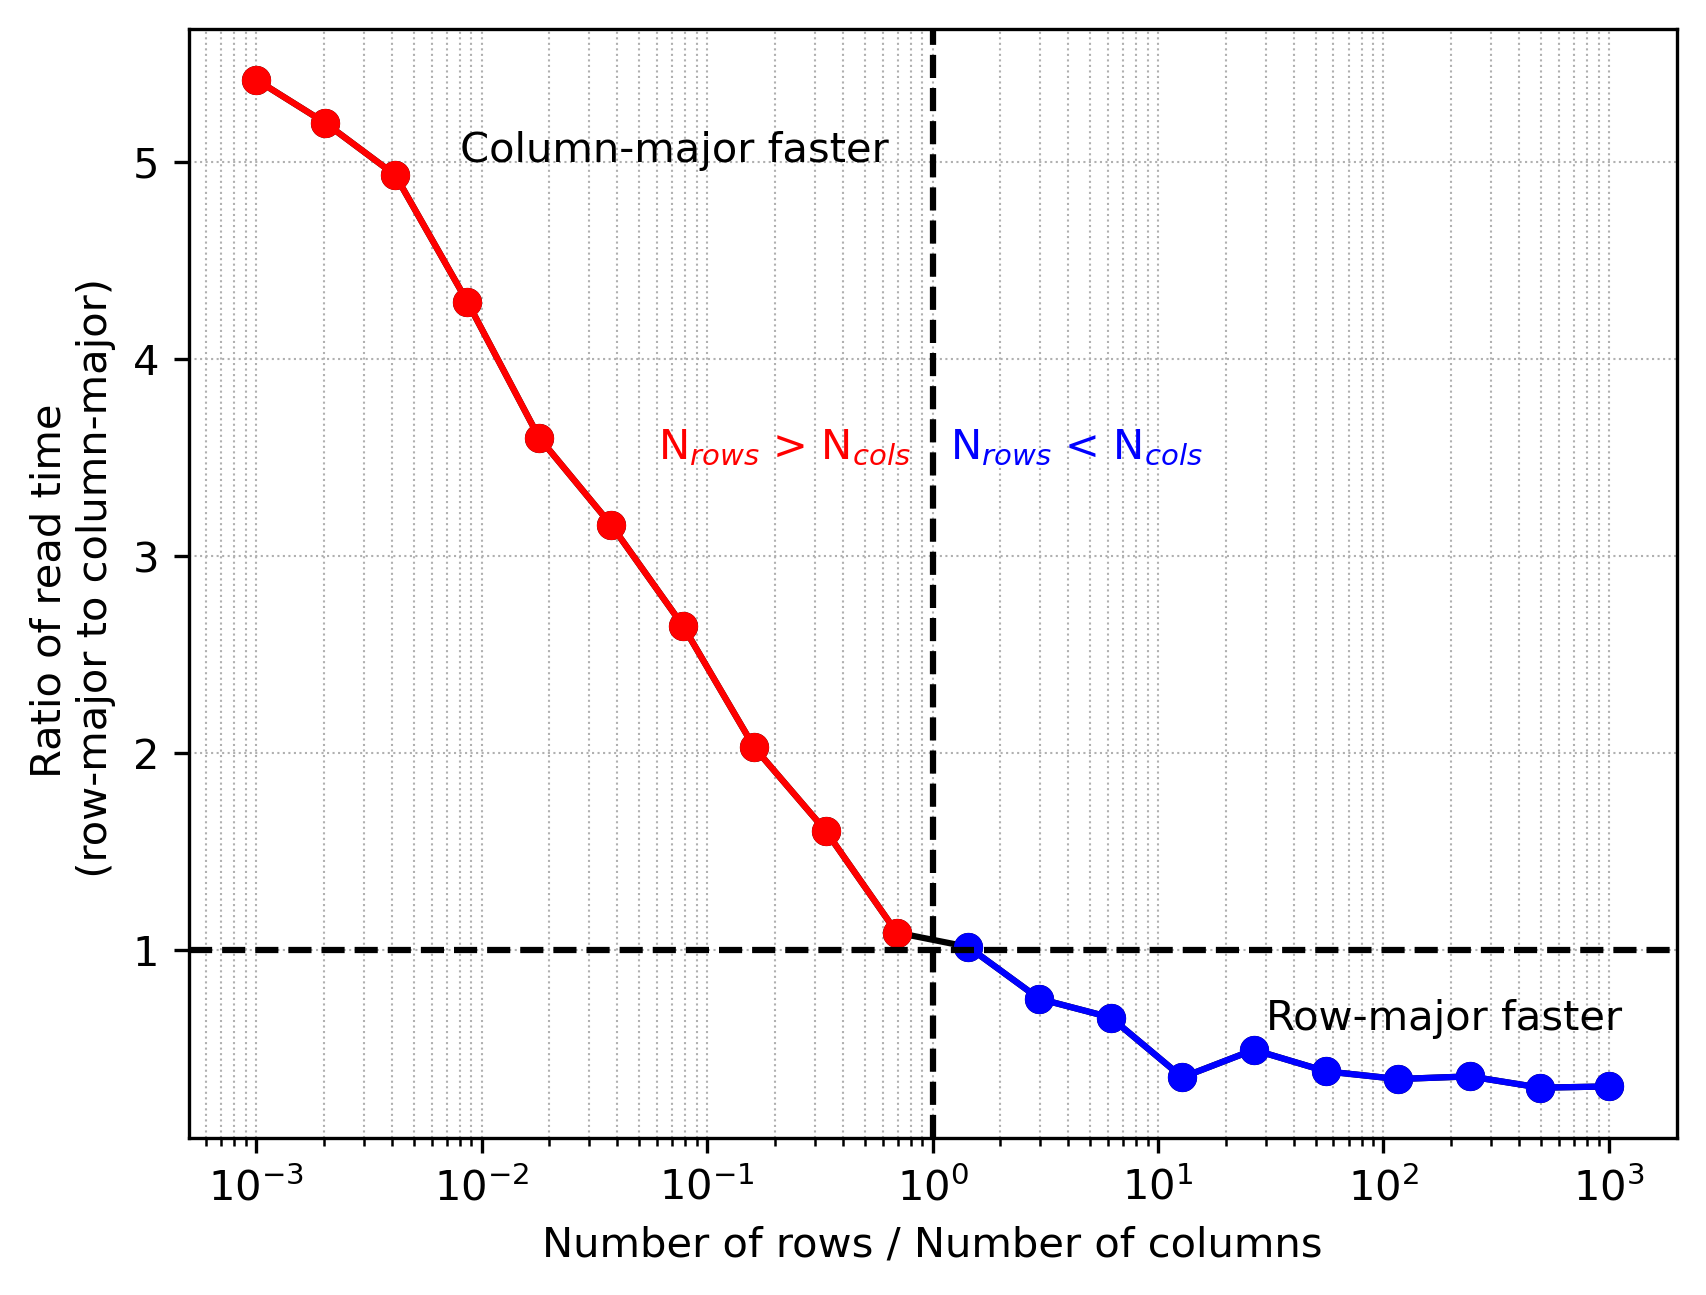
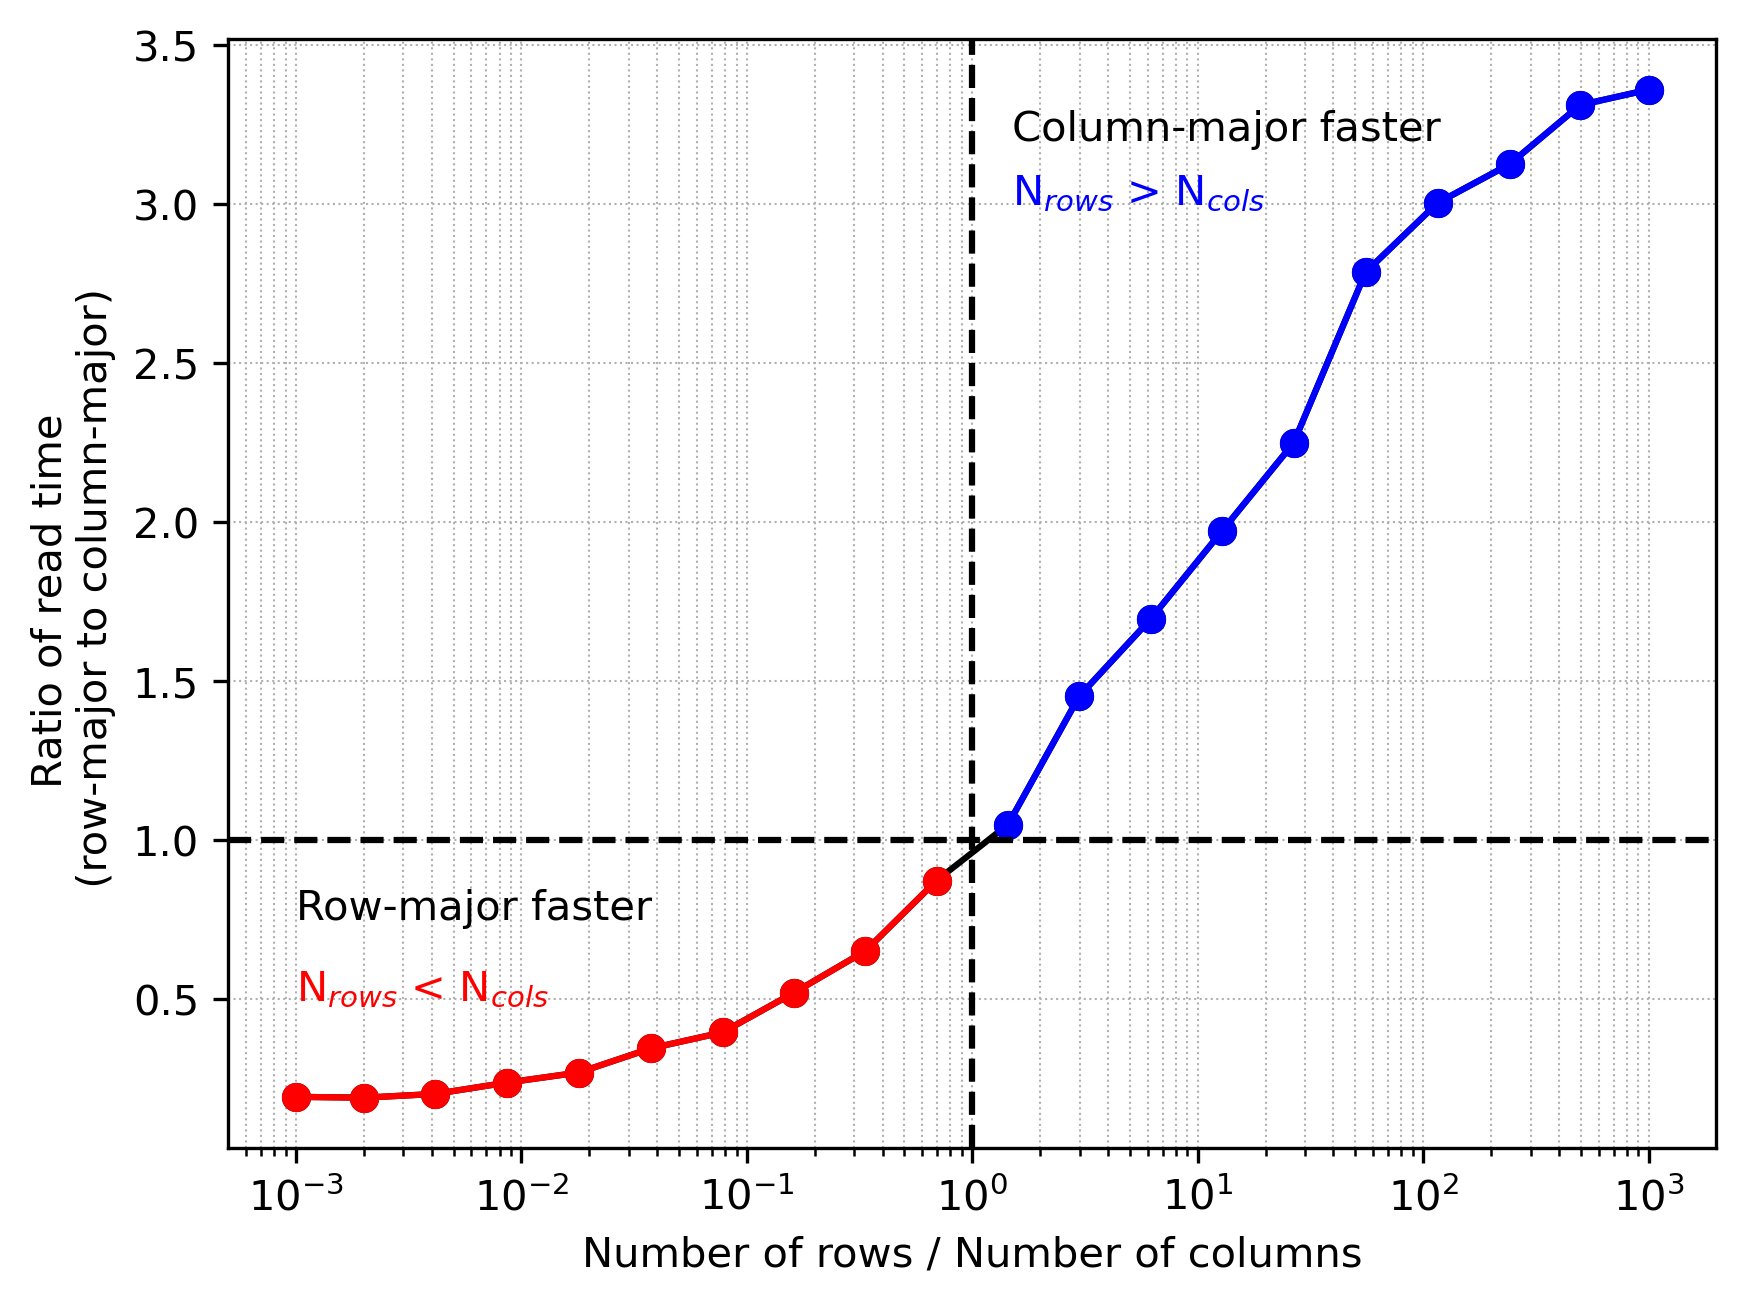
Corrections to Blog #001

Changed region(s): [[0.0, 0.0, 0.9941, 0.9884]]

diff --git a/content/blog/blog_1.md b/content/blog/blog_1.md
@@ -1,7 +1,9 @@
-Title: Caveats of custom binary data formats
+Title: #001: Caveats of custom binary data formats
 Date: 2023-12-03
 Summary: 
 Author: Yash Sarkango
+Tags: Code
+Slug: 001
 
 # TL;DR
 Use column-major data formats when saving a table in binary format that has more rows than columns, and row-major format if vice-versa.
@@ -181,7 +183,7 @@ Hence, it appears that column-major ordering of binary data is faster since it u
         read_binary_columnmajor(nx, ny)
         etime_column = time.time() - start
 
-        tratio[i] = etime_column / etime_row
+        tratio[i] = etime_row / etime_column
         
         i += 1
 
@@ -196,10 +198,10 @@ Hence, it appears that column-major ordering of binary data is faster since it u
 
     ax.set_xlabel('Number of rows / Number of columns')
     ax.set_ylabel('Ratio of read time \n (row-major to column-major)')
-    ax.text(8e-3, 5, 'Column-major faster')
-    ax.text(3e1, 0.6, 'Row-major faster')
-    ax.text(0.8, 3.5, 'N$_{rows}$ > N$_{cols}$', horizontalalignment='right', color='r')
-    ax.text(1.2, 3.5, 'N$_{rows}$ < N$_{cols}$', horizontalalignment='left', color='b')
+    ax.text(1.5, 3.2, 'Column-major faster')
+    ax.text(1e-3, 0.75, 'Row-major faster')
+    ax.text(1e-3, 0.5, 'N$_{rows}$ < N$_{cols}$', horizontalalignment='left', color='r')
+    ax.text(1.5, 3.0, 'N$_{rows}$ > N$_{cols}$', horizontalalignment='left', color='b')
     fig.savefig('images/trend.png', dpi=300, bbox_inches='tight', facecolor='w')
 
 This gives us the following plot,

diff --git a/content/blog/blog_0.md b/content/blog/blog_0.md
@@ -1,5 +1,7 @@
-Title: Purpose for Blogging
+Title: #000: Purpose for Blogging
 Date: 2023-10-12
 Summary: 
+Tags: Personal
+Slug: 000
 
 Sometimes I come across quirky or useful analyses or tools that are not novel or compelling enough to be made into scientific publications. So, I am experimenting with blogs as a way to share these small findings and practise my writing.

diff --git a/content/pages/about.md b/content/pages/about.md
@@ -1,6 +1,8 @@
 Title: About Me
 Category: About
 Authors: Yash Sarkango
+URL: 
+save_as: index.html
 
 <!--- //![Picture](../images/photo.JPG) --->
 
